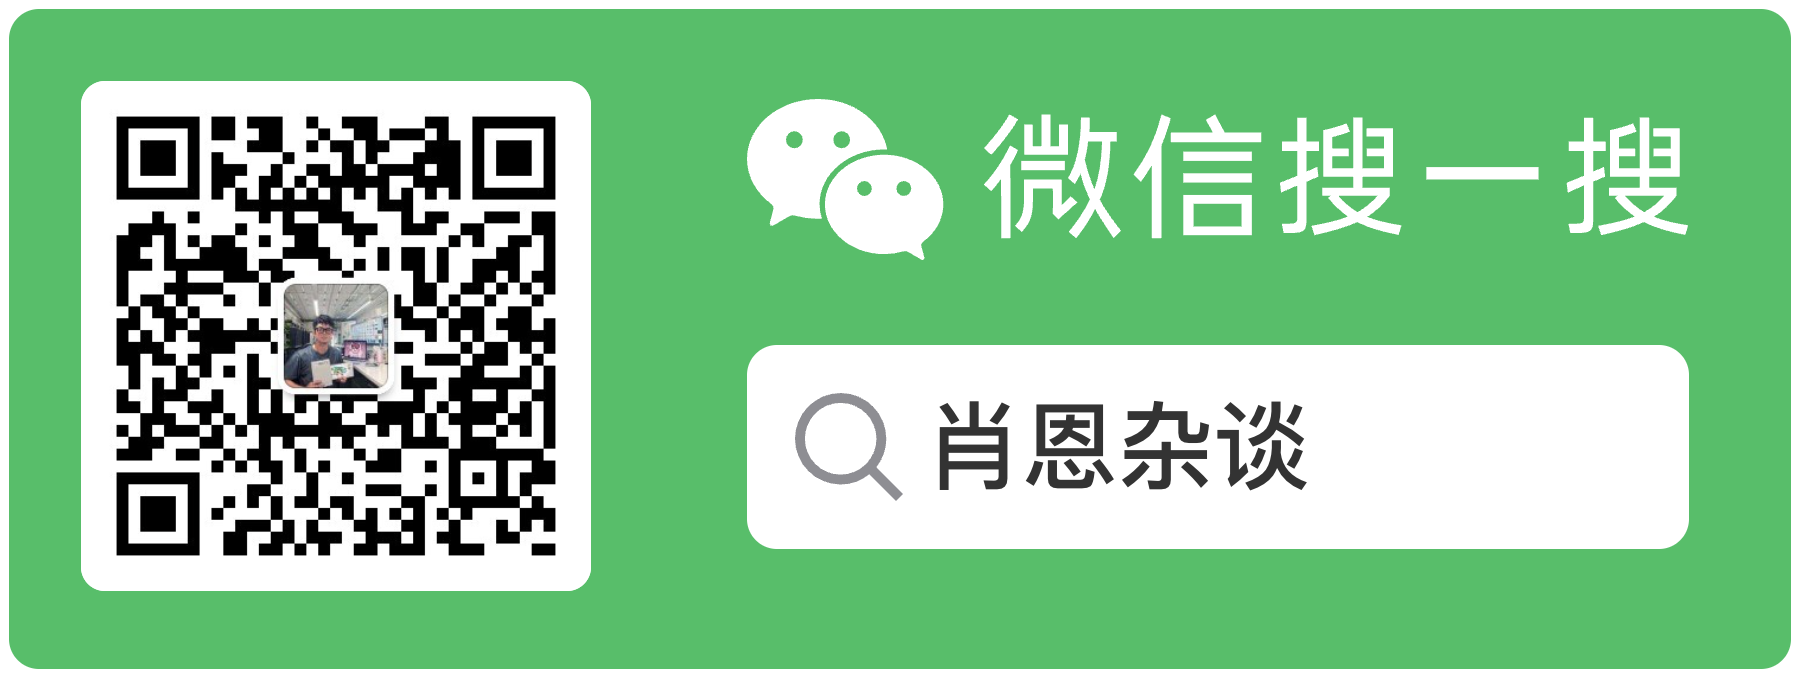
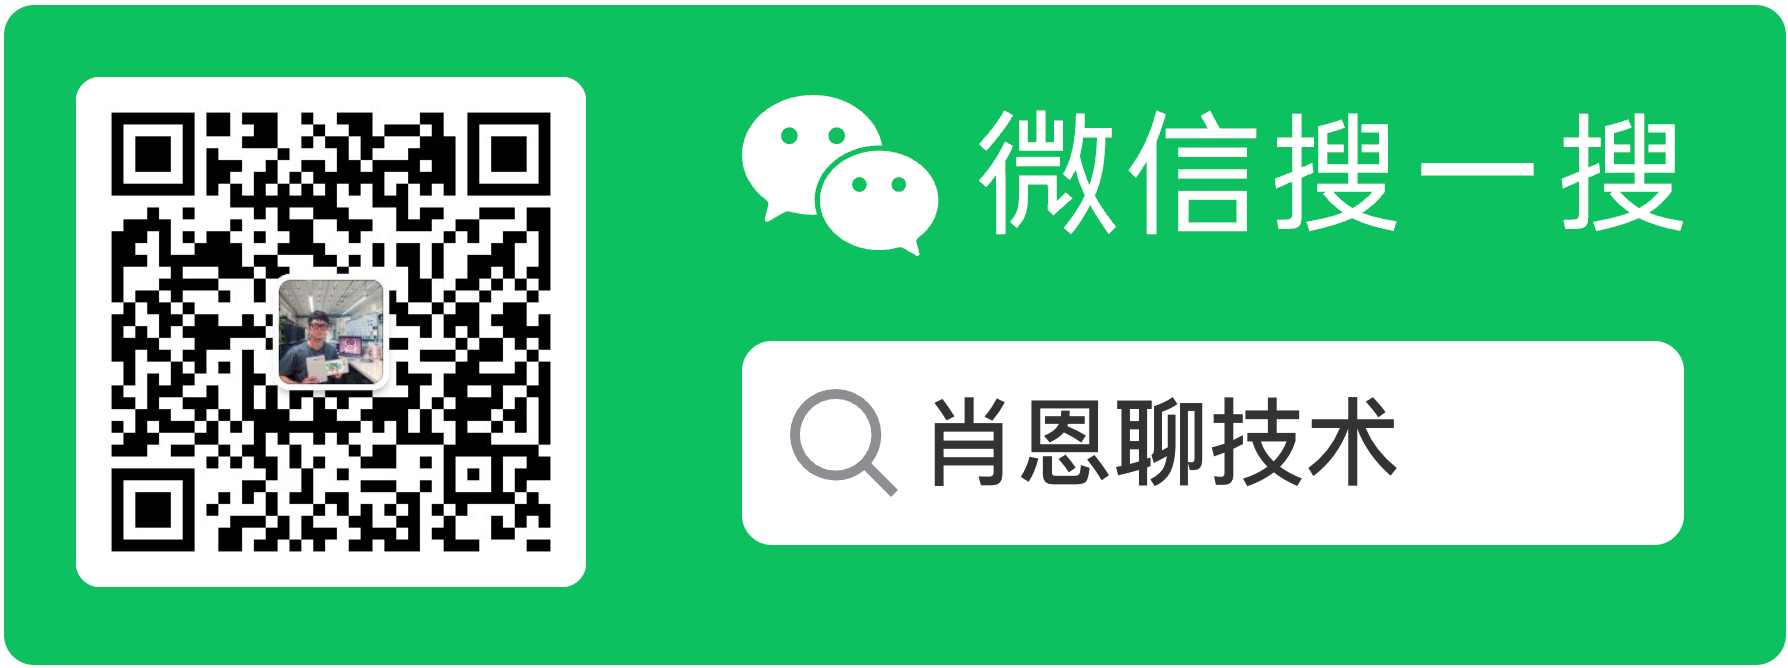
feat(*): 调整公众号名称

diff --git a/article/【2024W36】肖恩技术周刊（第 14 期）.md b/article/【2024W36】肖恩技术周刊（第 14 期）.md
@@ -1,7 +1,7 @@
 > **周刊内容**: 对一周内阅读的资讯或技术内容精品（个人向）进行总结，分类大致包含“业界资讯”、“技术博客”、“开源项目”和“工具推荐”等。为减少阅读负担提高记忆留存率，每类下内容数一般不超过3条。<br>
 > **更新时间**: 星期天<br>
 > **历史收录**: [shawn-weekly](https://github.com/Xiaoxie1994/shawn-weekly) <br>
-> **订阅方式**: 微信公众号“**肖恩杂谈**”，除周刊外还有更多原创技术博文~<br>
+> **订阅方式**: 微信公众号“**肖恩聊技术**”，除周刊外还有更多原创技术博文~<br>
 > <img src="../picture/image-1.png" alt="公众号二维码" width="300">
 
 ## 开篇图

diff --git a/source/template.md b/source/template.md
@@ -1,7 +1,7 @@
 > **周刊内容**: 对一周内阅读的资讯或技术内容精品（个人向）进行总结，分类大致包含“业界资讯”、“技术博客”、“开源项目”和“工具推荐”等。为减少阅读负担提高记忆留存率，每类下内容数一般不超过3条。<br>
 > **更新时间**: 星期天<br>
 > **历史收录**: [shawn-weekly](https://github.com/Xiaoxie1994/shawn-weekly) <br>
-> **订阅方式**: 微信公众号“**肖恩杂谈**”，除周刊外还有更多原创技术博文~<br>
+> **订阅方式**: 微信公众号“**肖恩聊技术**”，除周刊外还有更多原创技术博文~<br>
 > <img src="../picture/image-1.png" alt="公众号二维码" width="300">
 
 ## 开篇图

diff --git a/README.md b/README.md
@@ -6,7 +6,7 @@
 ## 订阅方式
 更新shi避免错过每期内容，可以通过以下方式订阅：
 - 个人博客：[肖恩技术周刊](https://www.shawnxie.top/categories/tf-weekly), [RSS订阅](https://www.shawnxie.top/feed.xml)
-- 公众号：肖恩杂谈
+- 公众号：肖恩聊技术
 
 <img src="./picture/image-1.png" alt="公众号二维码" width="400">
 
@@ -14,6 +14,7 @@
 使用AI工具将图文信息生成了视频，方便没时间阅读文字的朋友快速了解周刊内容，查看方式：
 
 <img src="./picture/WechatIMG182.jpg" alt="公众号二维码" width="300">
+![alt text](image.png)
 
 
 ## 往期内容

diff --git a/article/【2024W23】肖恩技术周刊（第 1 期）.md b/article/【2024W23】肖恩技术周刊（第 1 期）.md
@@ -3,7 +3,7 @@
 > **历史收录**: [shawn-weekly](https://github.com/Xiaoxie1994/shawn-weekly) <br>
 > **订阅方式**: 
 > - **个人博客**: [肖恩的杂货店](https://www.shawnxie.top/categories/tf-weekly), [RSS订阅](https://www.shawnxie.top/feed.xml)
-> - **公众号**: 肖恩杂谈
+> - **公众号**: 肖恩聊技术
 >
 > **备注**: 内容收集&摘要生成基于[developer-hotspots-summary](https://github.com/Xiaoxie1994/developer-hotspots-summary)，之后经人工校验和调整后发布。
 

diff --git a/article/【2024W24】肖恩技术周刊（第 2 期）.md b/article/【2024W24】肖恩技术周刊（第 2 期）.md
@@ -3,7 +3,7 @@
 > **历史收录**: [shawn-weekly](https://github.com/Xiaoxie1994/shawn-weekly) <br>
 > **订阅方式**: 
 > - **个人博客**: [肖恩的杂货店](https://www.shawnxie.top/categories/tf-weekly), [RSS订阅](https://www.shawnxie.top/feed.xml)
-> - **公众号**: 肖恩杂谈
+> - **公众号**: 肖恩聊技术
 >
 > **备注**: 内容收集&摘要生成基于[developer-hotspots-summary](https://github.com/Xiaoxie1994/developer-hotspots-summary)，之后经人工校验和调整后发布。
 

diff --git a/article/【2024W25】肖恩技术周刊（第 3 期）.md b/article/【2024W25】肖恩技术周刊（第 3 期）.md
@@ -3,7 +3,7 @@
 > **历史收录**: [shawn-weekly](https://github.com/Xiaoxie1994/shawn-weekly) <br>
 > **订阅方式**: 
 > - **个人博客**: [肖恩的杂货店](https://www.shawnxie.top/categories/tf-weekly), [RSS订阅](https://www.shawnxie.top/feed.xml)
-> - **公众号**: 肖恩杂谈
+> - **公众号**: 肖恩聊技术
 >
 > **备注**: 内容收集&摘要生成基于[developer-hotspots-summary](https://github.com/Xiaoxie1994/developer-hotspots-summary)，之后经人工校验和调整后发布。
 

diff --git a/article/【2024W26】肖恩技术周刊（第 4 期）.md b/article/【2024W26】肖恩技术周刊（第 4 期）.md
@@ -2,7 +2,7 @@
 > **更新时间**: 每周六（无特殊情况）<br>
 > **历史收录**: [shawn-weekly](https://github.com/Xiaoxie1994/shawn-weekly) <br>
 > **订阅方式**: 
-> - **公众号**: 肖恩杂谈<br>
+> - **公众号**: 肖恩聊技术<br>
 > <img src="../picture/image-1.png" alt="公众号二维码" width="300">
 >
 > - **个人博客**: [肖恩的杂货店](https://www.shawnxie.top/categories/tf-weekly), [RSS订阅](https://www.shawnxie.top/feed.xml)

diff --git a/article/【2024W27】肖恩技术周刊（第 5 期）.md b/article/【2024W27】肖恩技术周刊（第 5 期）.md
@@ -2,7 +2,7 @@
 > **更新时间**: 每周六（无特殊情况）<br>
 > **历史收录**: [shawn-weekly](https://github.com/Xiaoxie1994/shawn-weekly) <br>
 > **订阅方式**: 
-> - **公众号**: 肖恩杂谈<br>
+> - **公众号**: 肖恩聊技术<br>
 > <img src="../picture/image-1.png" alt="公众号二维码" width="300">
 >
 > - **个人博客**: [肖恩的杂货店](https://www.shawnxie.top/categories/tf-weekly), [RSS订阅](https://www.shawnxie.top/feed.xml)

diff --git a/article/【2024W31】肖恩技术周刊（第 9 期）.md b/article/【2024W31】肖恩技术周刊（第 9 期）.md
@@ -2,7 +2,7 @@
 > **更新时间**: 星期天<br>
 > **历史收录**: [shawn-weekly](https://github.com/Xiaoxie1994/shawn-weekly) <br>
 > **订阅方式**: 
-> - **公众号**: 肖恩杂谈<br>
+> - **公众号**: 肖恩聊技术<br>
 > <img src="../picture/image-1.png" alt="公众号二维码" width="300">
 >
 > - **个人博客**: [肖恩的杂货店](https://www.shawnxie.top/categories/tf-weekly)

diff --git a/article/【2024W32】肖恩技术周刊（第 10 期）.md b/article/【2024W32】肖恩技术周刊（第 10 期）.md
@@ -2,7 +2,7 @@
 > **更新时间**: 星期天<br>
 > **历史收录**: [shawn-weekly](https://github.com/Xiaoxie1994/shawn-weekly) <br>
 > **订阅方式**: 
-> - **公众号**: 肖恩杂谈<br>
+> - **公众号**: 肖恩聊技术<br>
 > <img src="../picture/image-1.png" alt="公众号二维码" width="300">
 >
 > - **个人博客**: [肖恩的杂货店](https://www.shawnxie.top/categories/tf-weekly)

diff --git a/article/【2024W33】肖恩技术周刊（第 11 期）.md b/article/【2024W33】肖恩技术周刊（第 11 期）.md
@@ -2,7 +2,7 @@
 > **更新时间**: 星期天<br>
 > **历史收录**: [shawn-weekly](https://github.com/Xiaoxie1994/shawn-weekly) <br>
 > **订阅方式**: 
-> - **公众号**: 肖恩杂谈<br>
+> - **公众号**: 肖恩聊技术<br>
 > <img src="../picture/image-1.png" alt="公众号二维码" width="300">
 >
 > - **个人博客**: [肖恩的杂货店](https://www.shawnxie.top/categories/tf-weekly)

diff --git a/article/【2024W34】肖恩技术周刊（第 12 期）.md b/article/【2024W34】肖恩技术周刊（第 12 期）.md
@@ -2,7 +2,7 @@
 > **更新时间**: 星期天<br>
 > **历史收录**: [shawn-weekly](https://github.com/Xiaoxie1994/shawn-weekly) <br>
 > **订阅方式**: 
-> - **公众号**: 肖恩杂谈<br>
+> - **公众号**: 肖恩聊技术<br>
 > <img src="../picture/image-1.png" alt="公众号二维码" width="300">
 >
 > - **个人博客**: [肖恩的杂货店](https://www.shawnxie.top/categories/tf-weekly)
